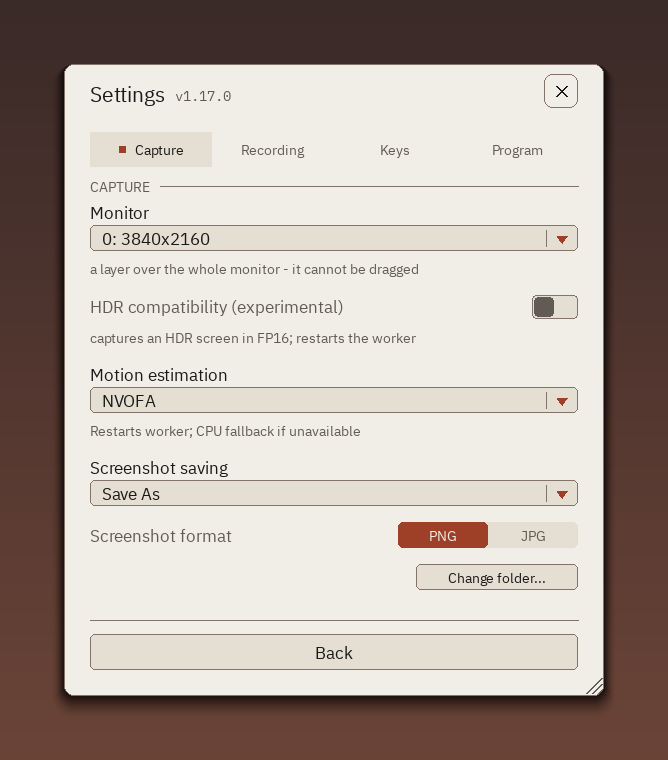
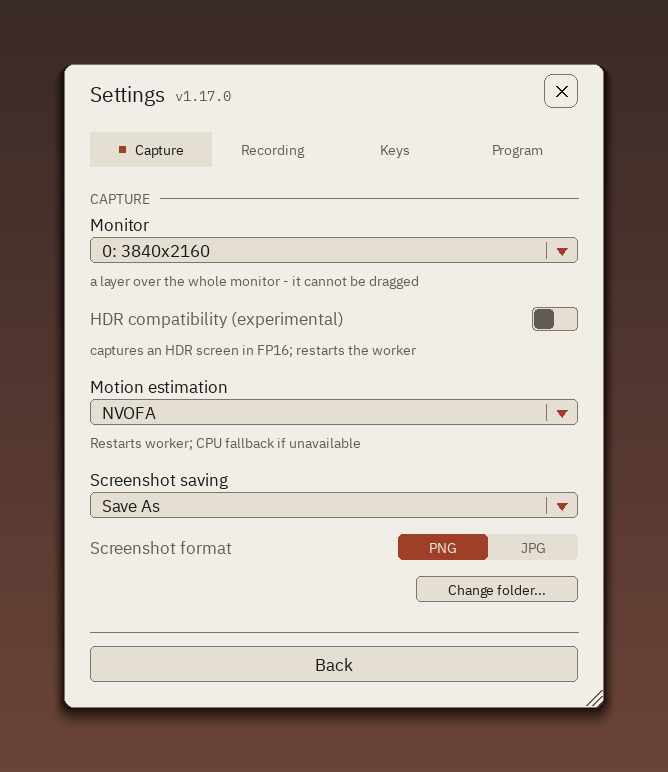
feat(ui): one rhythm between the blocks, and a comparison slider that is just the track
Three things the user asked for after looking at the panel (20.09), and
one dead parameter they were hiding.

THE RHYTHM. The air above a section title came out as 22, 22, 14 and 40
px depending on what the preceding builder happened to leave in `cy` -
one adds ROW_GAP, the preset row adds 8, a hinted slider adds a caption
line. Four different gaps where the eye expects one is what reads as
holes between the blocks. `section()` now measures from the bottom of
what is actually laid out and applies SECTION_TOP_GAP once. The header
icons are excluded: they sit above the scroll area, and taking them as
"the last row" put the first title on the status line.

THE COMPARISON BLOCK is the track and nothing else - no caption line, no
percentage cell. The block title already says what it is, and the wipe's
subject is the picture behind the panel, not a number on it. The ruler
carries the position instead: every tick the knob has passed is drawn in
the text tone, the rest in the border tone, and this slider asks for
eleven of them so it reads in tenths rather than the quarters five would
give.

THE PRESET BUTTONS are flat. Bordered, they weighed exactly as much as
Screenshot and Record two blocks below, and saving a preset is not that
kind of action.

And `ends` - the pair of captions naming the trade at the two ends of
the resolution slider - has drawn NOTHING since the redesign replaced it
with the ruler. All it still did was reserve a blank line, which is the
[…]

diff --git a/overlay_ui.py b/overlay_ui.py
@@ -135,6 +135,16 @@ LABEL_H = 24
 CTRL_H = 26
 ROW_GAP = 16
 SECTION_GAP = 14
+#: The air above a section title, measured from the bottom of the last row
+#: before it. ONE number for every block: it used to come out as 22, 22, 14 and
+#: 40 px depending on what the preceding builder happened to add after itself,
+#: and four different gaps where the eye expects one rhythm is what reads as
+#: holes between the sections (user, 20.09).
+SECTION_TOP_GAP = 22
+#: How far under the track the ruler sits. Named because the layout reserves
+#: the room and the drawer places the ticks, and a slider whose row is shorter
+#: than what it draws puts the next control on top of its own scale.
+RULER_DROP = 5
 SLIDER_H = 6
 KNOB_R = 9
 BTN_H = 42
@@ -948,38 +958,82 @@ class OverlayMenu:
             squares = squares_here
             if not show:
                 return
-            cy += self._u(6)
+            # Measured from what is actually on the page, not from whatever the
+            # last builder left in `cy`: each of them adds its own trailing air
+            # (one adds ROW_GAP, the preset row adds 8, a hinted slider adds a
+            # caption line), and those differences landed straight in the gap
+            # before the next title. The items know where the content really
+            # ends, so ask them.
+            #
+            # The header icons are NOT content: they sit above the scroll area,
+            # and taking them as "the last row" put the first section title on
+            # top of the status line.
+            bottom = max((it.rect.bottom for it in items
+                          if it.kind != "icon"), default=None)
+            if bottom is None and self._stats_rel.h:
+                # Nothing laid out yet on the main page: the status line is what
+                # the first title follows.
+                bottom = self._stats_rel.bottom
+            if bottom is not None:
+                cy = bottom + self._u(SECTION_TOP_GAP)
+            else:
+                cy += self._u(6)
             self._sections.append((title, pygame.Rect(pad, cy, inner_w, sec_h)))
             cy += sec_h
 
         def slider(key: str, lo: float, hi: float, value: float,
                    label: str, hint: str = "", value_text: str = "",
-                   mark: float | None = None,
-                   ends: tuple | None = None) -> None:
+                   mark: float | None = None, bare: bool = False,
+                   ticks: int = 5) -> None:
             nonlocal cy
             if not show:
                 return
+            # `bare`: the track alone, with no caption line and no value cell.
+            # The ruler under it carries the position instead - for a control
+            # whose whole subject is already named by its section, those two
+            # lines of furniture said nothing the block title had not already
+            # said (user, 20.09).
+            row_label_h = 0 if bare else label_h
             item = Item("slider", key,
-                              pygame.Rect(pad, cy, inner_w, label_h + ctrl_h),
+                              pygame.Rect(pad, cy, inner_w, row_label_h + ctrl_h),
                               lo=lo, hi=hi, value=value,
                               extra={"label": label, "hint": hint,
-                                     "mark": mark, "ends": ends,
+                                     "mark": mark,
                                      "value_text": value_text,
-                                     "label_h": label_h,
-                                     "square": squares})
+                                     "label_h": row_label_h,
+                                     "bare": bare, "ticks": ticks,
+                                     "square": squares and not bare})
             # The hit zone is the TRACK, not the row: a click on the label
             # or on the blank space left of the track must not jump the
             # value (user rule 16.09). The track's rect is computed
             # exactly as _draw_slider computes it.
-            track_y = cy + label_h + self._u(10)
+            track_y = cy + row_label_h + self._u(10)
             item.extra["hit"] = pygame.Rect(
                 pad, track_y - self._u(6), inner_w,
                 self._u(SLIDER_H) + self._u(12))
+            # What is drawn UNDER the track is part of the row, and the row has
+            # to be that tall or the next control lands on it. Two things live
+            # there, in this order: the ruler, then the caption.
+            #
+            # The caption used to be reserved as exactly one line and drawn
+            # unwrapped, so a real sentence ran past the panel edge and a
+            # translated one overprinted the row below - the same defect #109
+            # named, fixed for the drop-downs and missed here.
+            below = self._u(RULER_DROP) + self._u(4)
+            if hint:
+                below += self._u(6) + self._hint_height(str(hint), inner_w)
+            item.extra["below"] = below
             items.append(item)
-            # End captions take the same line a hint would: a slider has
-            # one or the other, never both (they would overprint).
-            cy += label_h + ctrl_h + (self._u(SMALL_SIZE) + 4
-                                      if (hint or ends) else 0) + gap
+            item.rect.h = row_label_h + ctrl_h + below
+            # The air AFTER the row. A plain slider ends in its ruler, and the
+            # ruler is thin, quiet and reads as part of the track - it already
+            # does the separating that the full row gap is there for, so paying
+            # both spends the height twice. (It used to be paid once only
+            # because the row was shorter than what it drew and the ruler
+            # overhung into the next row's air.) A slider with a caption keeps
+            # the full gap: a line of text needs air under it, not beside it.
+            cy += item.rect.h + (gap if hint
+                                 else max(self._u(8), gap - below))
 
         def choice(key: str, label: str, current: str, options: list,
                    labels: list | None = None, hint: str = "") -> None:
@@ -1565,11 +1619,14 @@ class OverlayMenu:
                 # put the knob at the bottom while the label shows a
                 # different resolution.
                 lo = float(self.state.get("work_scale_min", 0.1))
-                # The ends replace the hint here: the trade is named at both
-                # ends, in the place where the choice is actually made.
+                # No caption under this one. It used to name the trade at
+                # both ends of the track; the redesign replaced the two words
+                # with the ruler and stopped drawing them, so all the pair did
+                # afterwards was reserve a blank line - the hole under this
+                # slider (user, 20.09). The value cell says the size, which is
+                # the number the choice is actually made on.
                 slider("nr_res", lo, cap, pos, s["nr_res"],
-                       value_text=value_text,
-                       ends=(s.get("nr_res_low", ""), s.get("nr_res_high", "")))
+                       value_text=value_text)
 
             # What is being processed - the first question anyone has, and
             # until now the only one answered on another page. The segment
@@ -1654,22 +1711,29 @@ class OverlayMenu:
                 items.append(Item("button", key,
                                   pygame.Rect(pad + idx * (bw + bgap),
                                               cy, bw, act_h),
+                                  # Flat: text, no box. A bordered button here
+                                  # weighed exactly as much as Screenshot and
+                                  # Record two blocks below, and saving a preset
+                                  # is not that kind of action - the hierarchy
+                                  # claimed otherwise than the page meant.
                                   extra={"label": label,
                                          "filled": False,
+                                         "flat": True,
+                                         "align": "center",
                                          "disabled": key == "delete_preset"
                                          and not self.state.get("preset_active")}))
             cy += act_h + self._u(8)
 
             section(s["sec_compare"])
             split_val = float(self.state.get("split", 0.0))
-            # The value is a NUMBER, and "off" lives in the hint. The direction
-            # the mockup sets: a word in a value cell makes the cell read as a
-            # label, and the wipe then looks like a switch rather than a
-            # position - while the cell is the one place a percentage can be
-            # read at a glance.
-            slider("split", 0.0, 1.0, split_val, s["split"], hint=s["split_hint"],
-                   value_text=(s.get("wipe_zero", "0%") if split_val <= 0.0
-                               else f"{int(round(split_val * 100))}%"))
+            # The track alone: no caption line, no percentage cell (user,
+            # 20.09). The block title already says what this is, and the wipe's
+            # subject is the picture behind the panel, not a number on it - the
+            # user is looking at the seam, not reading a percentage. The ruler
+            # carries the position: eleven ticks, so it reads in tenths rather
+            # than in the quarters five would give.
+            slider("split", 0.0, 1.0, split_val, s["split"],
+                   hint=s["split_hint"], bare=True, ticks=11)
 
             section(s["sec_actions"])
             # Two rows of two: Select window + Fullscreen on top, Screenshot
@@ -2929,22 +2993,23 @@ class OverlayMenu:
         # The value is a NUMBER CELL - the same one every other number on the
         # page uses (see `_draw_number_cell`). Measured through the shared helper
         # so the label can be budgeted against it before it is drawn.
-        cell_w, _cell_h = self._number_cell_size(value_text)
-        val = self._mono.render(value_text, True, _rgb(self.c["text"]))
+        bare = bool(item.extra.get("bare"))
+        cell_w, _cell_h = (0, 0) if bare else self._number_cell_size(value_text)
         shift = self._u(7) + self._u(10) if item.extra.get("square") else 0
         label_max = (item.rect.right - cell_w - self._u(12)
                      - item.rect.x - shift)
-        if item.extra.get("square"):
-            self._draw_state_square(
-                surface, item.rect.x,
-                item.rect.y + self._font.get_height() // 2,
-                filled=bool(item.extra.get("state_filled")))
-        label = self._clip(self._font, item.extra.get("label", item.key),
-                           _rgb(self.c["text"]), label_max)
-        surface.blit(label, (item.rect.x + shift, item.rect.y))
-        self._draw_number_cell(
-            surface, value_text, item.rect.right,
-            item.rect.y + self._font.get_height() // 2)
+        if not bare:
+            if item.extra.get("square"):
+                self._draw_state_square(
+                    surface, item.rect.x,
+                    item.rect.y + self._font.get_height() // 2,
+                    filled=bool(item.extra.get("state_filled")))
+            label = self._clip(self._font, item.extra.get("label", item.key),
+                               _rgb(self.c["text"]), label_max)
+            surface.blit(label, (item.rect.x + shift, item.rect.y))
+            self._draw_number_cell(
+                surface, value_text, item.rect.right,
+                item.rect.y + self._font.get_height() // 2)
 
         track_y = item.rect.y + label_h + self._u(10)
         track = pygame.Rect(item.rect.x, track_y, item.rect.w, self._u(SLIDER_H))
@@ -2991,20 +3056,34 @@ class OverlayMenu:
         # The ruler: five 1x4 ticks spread under the track (the mockup's own
         # count). They say "this is a scale" without spending two captions on
         # it - what the ends mean is already in the label and the value.
-        if item.extra.get("ticks", True):
-            n = 5
-            ty = track.bottom + self._u(5)
+        # The ruler under the track. On an ordinary slider it says "this is a
+        # scale" and nothing more. On a BARE one it is also the readout: every
+        # tick the knob has passed is drawn in the text tone and the rest in the
+        # border tone, so the position is legible with no caption and no value
+        # cell at all. That is why a bare slider asks for a denser ruler - five
+        # ticks resolve to a quarter of the range, which is not a reading.
+        n = int(item.extra.get("ticks", 5) or 0)
+        if n >= 2:
+            ty = track.bottom + self._u(RULER_DROP)
             for i in range(n):
                 tx = int(track.x + (track.w - self._u(1)) * (i / (n - 1)))
+                passed = bare and tx <= cx
                 pygame.draw.rect(
-                    surface, _rgb(self.c["border"]),
+                    surface,
+                    _rgb(self.c["text"] if passed else self.c["border"]),
                     pygame.Rect(tx, ty, max(1, self._u(1)), self._u(4)))
         item.extra["track"] = track
 
         hint = item.extra.get("hint")
         if hint:
-            h = self._small_font.render(hint, True, _rgb(self.c["muted"]))
-            surface.blit(h, (item.rect.x, track.bottom + self._u(6)))
+            # Under the ruler, wrapped and clipped through the one shared
+            # implementation - drawn at +6 it overprinted the ticks, and
+            # rendered in one piece it ran off the panel in any language whose
+            # sentence is longer than the English one.
+            self._draw_hint_lines(
+                surface, item, hint, item.rect.x,
+                track.bottom + self._u(RULER_DROP) + self._u(4) + self._u(6),
+                item.rect.w)
 
     def _draw_choice(self, surface, item: Item, s: dict) -> None:
         label_h = item.extra.get("label_h", self._u(LABEL_H))
@@ -3700,14 +3779,21 @@ class OverlayMenu:
         hot = self.hover == f"button:{item.key}"
         disabled = bool(item.extra.get("disabled"))
         if item.extra.get("flat"):
-            # Text only, right-aligned, in the accent: this is a link in
-            # weight, and a bordered box here would compete with the two
-            # real buttons under the sliders.
+            # Text only, in the accent: this is a link in weight, and a bordered
+            # box here would compete with the real buttons elsewhere on the
+            # page. Right-aligned by default (the revert link sits under the
+            # profile picker); centred when the item owns a slot of its own, as
+            # the two preset buttons do.
+            tone = (self.c["muted"] if disabled
+                    else self.c["focus"] if hot
+                    else self.c["accent"])
             img = self._clip(self._small_font,
                              item.extra.get("label", item.key),
-                             _rgb(self.c["accent"]), item.rect.w)
-            surface.blit(img, (item.rect.right - img.get_width(),
-                               item.rect.centery - img.get_height() // 2))
+                             _rgb(tone), item.rect.w)
+            x = (item.rect.centerx - img.get_width() // 2
+                 if item.extra.get("align") == "center"
+                 else item.rect.right - img.get_width())
+            surface.blit(img, (x, item.rect.centery - img.get_height() // 2))
             return
         # "filled": the active choice inside an inline group (the FG
         # multiplier) reads as a selected segment - accent background, the

diff --git a/tests/test_settings_hints.py b/tests/test_settings_hints.py
@@ -145,42 +145,6 @@ def main() -> int:
     print(f"    widest segment caption: {widest_seg[1]} at "
           f"{widest_seg[0] * 100:.0f}% of its cell")
 
-    # The captions under a slider track are the third thing that truncates
-    # in silence: left at the edge, right at the edge, and since the
-    # parameter sliders carry their scale, a word centred between them. They
-    # collide rather than clip, which reads as one run-on caption.
-    widest_ends = (0.0, "")
-    for lang in STRINGS:
-        menu = OverlayMenu(1.0, lambda size=14, mono=False, bold=False, L=lang:
-                           fonts.load(size, mono=mono, bold=bold, lang=L))
-        menu.lang = lang
-        menu.set_state(dict(STATE, lang=lang))
-        menu.visible = True
-        for page, tab in [("main", None)] + [("settings", t)
-                                            for t in SETTINGS_TABS]:
-            menu.page = page
-            if tab is not None:
-                menu.settings_tab = tab
-            menu.layout(3840, 2160)
-            for item in menu.items:
-                ends = item.extra.get("ends")
-                if not ends:
-                    continue
-                parts = (ends if len(ends) == 3 else (ends[0], "", ends[1]))
-                used = sum(menu._small_font.size(str(p))[0] for p in parts)
-                used += menu._u(14) * 2          # the gaps that keep them apart
-                share = used / item.rect.w
-                if share > widest_ends[0]:
-                    widest_ends = (share, f"{lang} {page}/{item.key}")
-                if share > ROOM:
-                    failures.append(
-                        f"{lang} {page}/{item.key}: the scale captions take "
-                        f"{share * 100:.0f}% of the row ({used} of "
-                        f"{item.rect.w} px) and run into each other: "
-                        f"{list(parts)}")
-    print(f"    widest slider scale: {widest_ends[1]} at "
-          f"{widest_ends[0] * 100:.0f}% of its row")
-
     # The controls that carry a hint at all. If a page stops laying one of
     # these out, this test would go quiet about it - and the quiet would
     # look like a pass.
